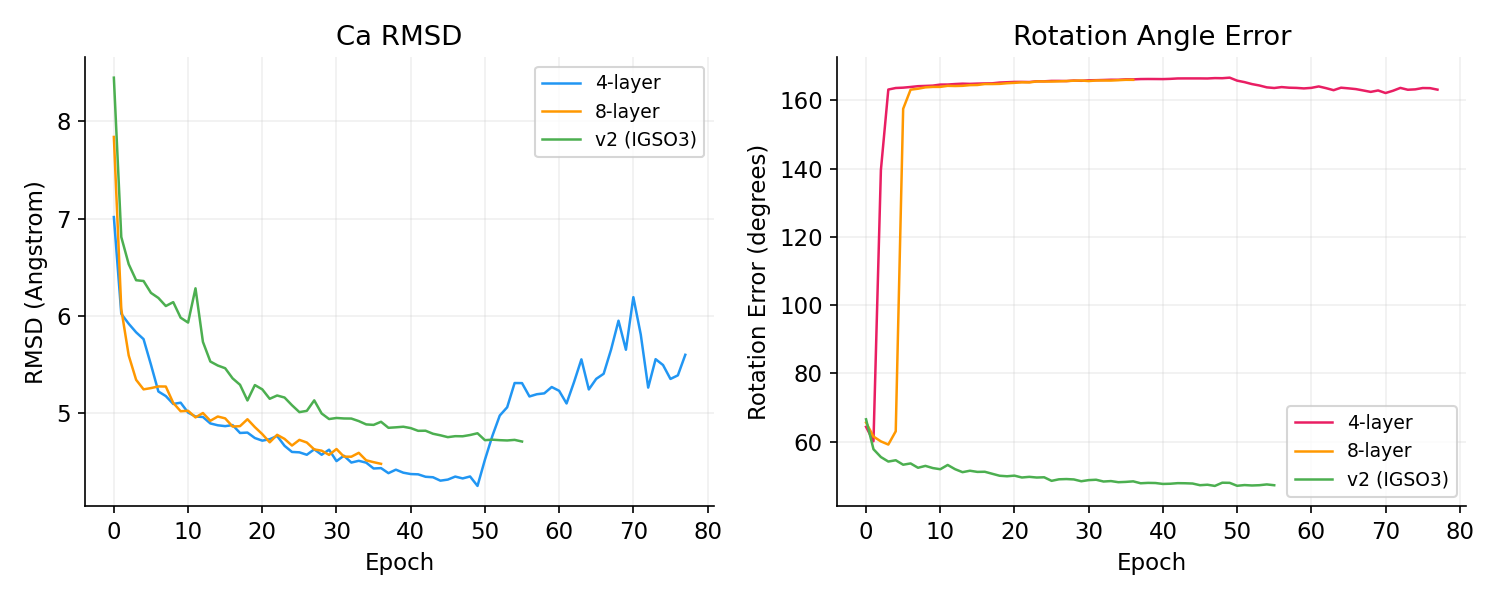
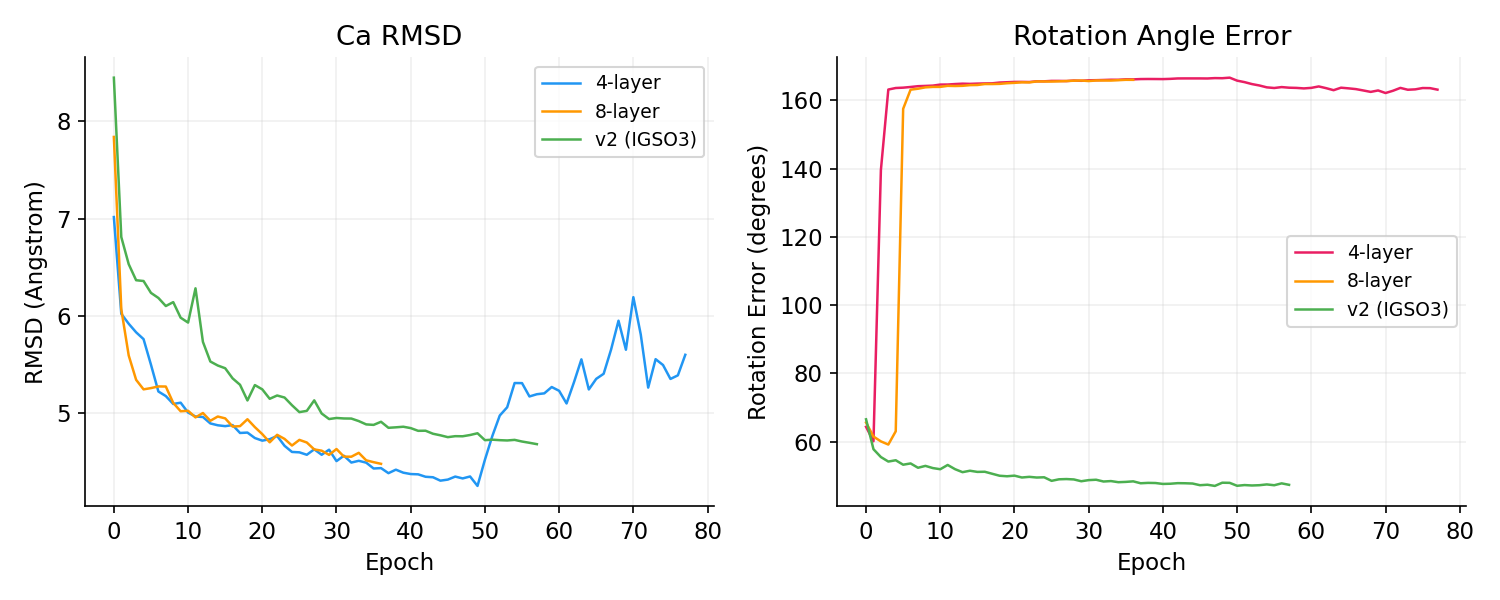
Update: v2 E57 RMSD=4.68 L_x=0.268, 0.20A from v1

Changed region(s): [[0.8587, 0.39, 0.9813, 0.57], [0.8587, 0.75, 0.9813, 0.84], [0.8587, 0.66, 0.9507, 0.72]]

diff --git a/minifold.html b/minifold.html
@@ -239,7 +239,7 @@
         <p style="margin:0; font-size:13px; color:var(--text-secondary)">~14.4M params &middot; Wider MLPs throughout<br>
         IGSO3 rotation noise + score matching loss<br>
         Proper SO(3) reverse SDE for sampling<br>
-        Status: E55, RMSD=4.71, rot_err=47.2, val best=6.18 (E51), 2xA40</p>
+        Status: E57, RMSD=4.68, L_x=0.268, rot_err=47.3, val best=6.18 (E51), 2xA40</p>
       </div>
     </div>
 
